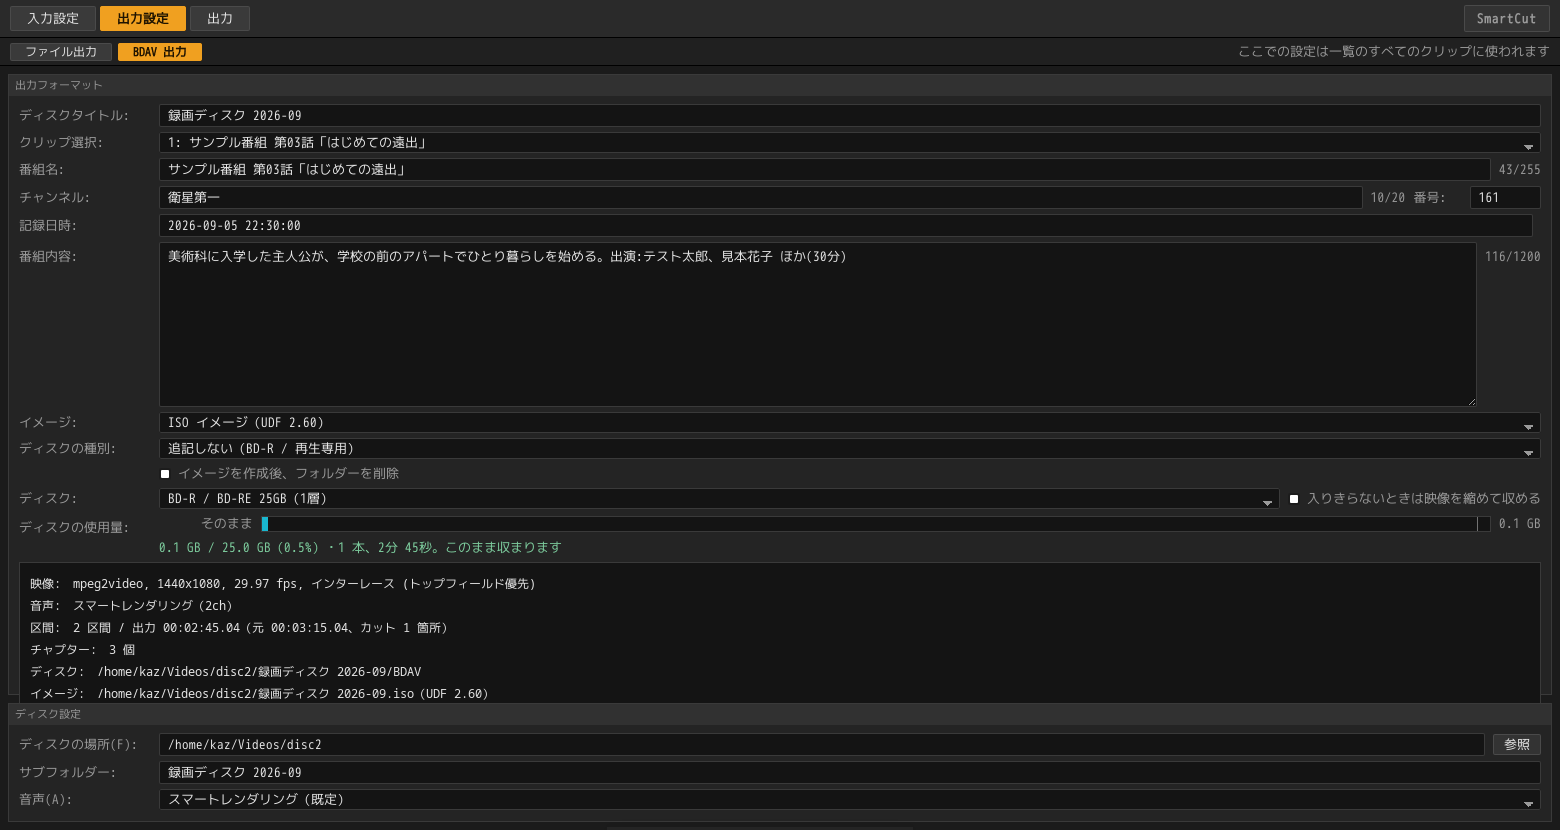
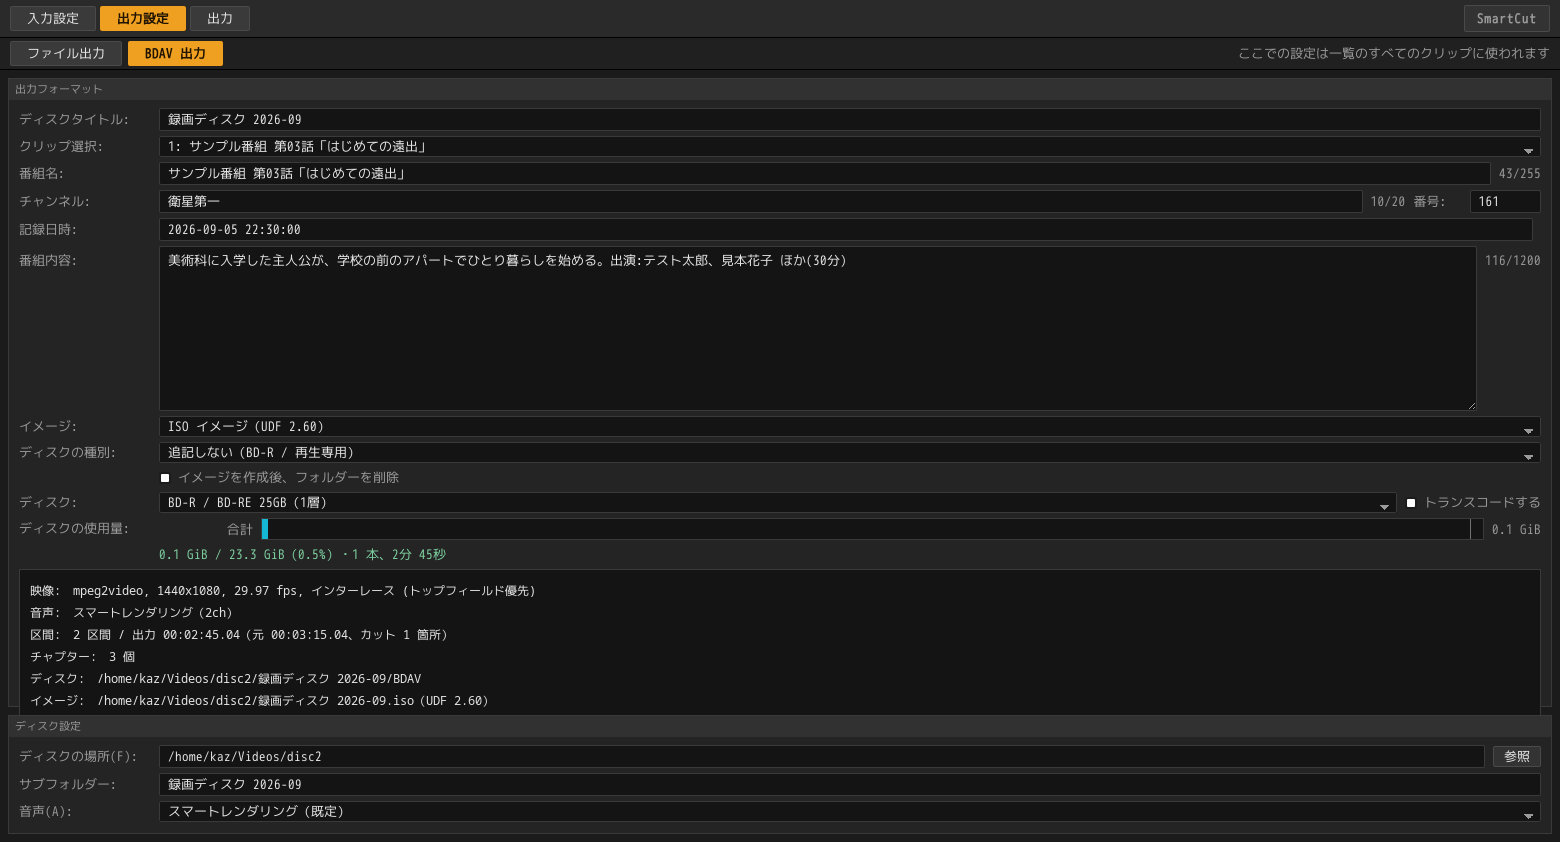
Photograph the disc panel as it now reads, and say what the gauge counts in
The two pictures of the disc panel were taken while the fitting work was
being written, and three things have moved since: the checkbox is called
`Transcode` rather than a sentence about making pictures smaller, the
first bar of the gauge is labelled `total` rather than `as it is`, and
the figures are counted in 1024s and named GiB. A single-layer disc reads
23.3 GiB where the picture still showed 25.0 GB.

That last one is worth a line in the guide rather than leaving the reader
to work it out: the control above the gauge says "25GB" and the gauge
says 23.3 GiB, and they are two statements about the same disc -- one the
name on the box, one what the file manager beside the window would say.

Also in the guide: the keyframe cards fill from an approximate seek while
the recording is still being read, the way the filmstrip beside them
already did. The paragraph about that stage described the strip and not
the cards.

And the opening of "Fitting a disc" compared thirty gigabytes of
recordings against a disc of twenty-three, which is thirty counted one
way against a disc counted the other. The disc is twenty-five.

diff --git a/docs/user-guide/gui.ja.md b/docs/user-guide/gui.ja.md
@@ -261,6 +261,9 @@ BDAV 出力では番組名にも入ります（出力設定で番組名を直接
 あります。再生位置を動かしているあいだは速いほうだけで埋め、**手を止めた瞬間に
 残りが埋まります。** サーチ中はまばらに見えて、離すと詰まるのはこのためです。
 
+**左の列のキーフレームの絵も同じです。** 読み終わるまでは近いところで取った
+絵が入り、読み終わると、印の時刻ちょうどの絵に入れ替わります。
+
 読み込みが終われば、どちらも正確なものに揃います。**先に入れたカットは、
 入れた位置のまま残ります。** 変わるのはその代償だけです。切れ目が無劣化点に
 乗っていなければ、数フレームの再エンコードとして計画に出てきて、
@@ -578,7 +581,7 @@ ImgBurn がそのまま焼けます。
 | **イメージを作成後、フォルダーを削除** | イメージの下にあり、イメージを作るときだけ出ます。同じ 30 GB が 2 つ残るのは、たいていの用途には多すぎます。フォルダーは今までどおり書かれ、`.iso` もそれを元に作られます。削除はそのあとで、`.iso` が書けたときだけです。消えるのは `BDAV` です。その上のフォルダーは空になったときだけ消えるので、自分のフォルダーに直接書いた場合、そこにある他のものは残ります |
 | **ディスク** | 焼く予定のディスクです（25GB / DL 50GB / XL 100GB / XL 128GB）。下の**ディスクの使用量**は、この大きさに対する図になります |
 | **トランスコードする** | 一覧が選んだディスクに収まらないとき、映像をトランスコードして収めます。**収まるときは何もしません。** 音声・字幕・番組情報はそのままで、小さくなるのは映像だけです。オンにすると、下の図に「変換後」の行が増えて、映像をどのくらいのサイズにするかが出ます。MPEG-2 の録画だけが対象で、それ以外の録画は元のサイズのまま場所を取ります。中で何をしているかは[ディスクに収める](../technical/transrate.ja.md)へ |
-| **ディスクの使用量** | 一覧がディスクに対してどれだけかを、録画 1 本ずつの帯にして描きます。白い線がディスクの端で、その手前の細い線が残しておく 1% です。線を越えた部分は赤くなります。数字は書き出す前の見積もりで、丸ごと 1 本なら 1% ほどの精度です |
+| **ディスクの使用量** | 一覧がディスクに対してどれだけかを、録画 1 本ずつの帯にして描きます。白い線がディスクの端で、その手前の細い線が残しておく 1% です。線を越えた部分は赤くなります。数字は書き出す前の見積もりで、丸ごと 1 本なら 1% ほどの精度です。単位は GiB で、ファイルマネージャーが言うのと同じ 1024 換算です。1 層のディスクが 23.3 GiB と出るのはそのためで、上の「25GB」は箱に書いてある名前のほうです |
 | **ディスクの場所** | 「出力先フォルダー」の代わりに出ます。**空欄にはできません**（ディスクは 1 か所ですが、一覧の録画は 4 か所から来ているかもしれないためです）。この下に「サブフォルダー」の名前でもう 1 段作り、そこに `BDAV` を書きます |
 
 **番組情報は録画と一緒に付いていきます。** これがディスクとして出す意味です。

diff --git a/docs/user-guide/gui.md b/docs/user-guide/gui.md
@@ -275,6 +275,10 @@ grid and some of them stay empty. While you are moving the playhead the strip
 keeps to the quick way and **completes itself the moment you stop** — which is
 why it can look thin while you search and fill in when you let go.
 
+**The keyframe cards down the left side are the same.** Until the reading
+finishes they hold a picture found near the mark; once it finishes, each card
+settles on the frame at the mark's own time.
+
 Once the reading finishes, both settle down to exact. **Cuts made earlier stay
 exactly where you put them.** The only thing that changes is what they cost: a
 join that is not on a lossless point shows up in the plan as a few re-encoded
@@ -604,7 +608,7 @@ Writing a disc adds these fields:
 | **Remove the folder once the image is written** | Under the image, and only there when one is being made: the same thirty gigabytes twice over is not what most runs want to be left with. The folder is still written and the image still made of it — this happens afterwards, and only where the image was written. `BDAV` goes, and the folder above it only where that leaves it empty, so a disc written into a folder of your own leaves the rest of it alone |
 | **Disc** | The disc this is going to be burned onto (25GB / DL 50GB / XL 100GB / XL 128GB). The gauge below is drawn against it |
 | **Transcode** | Where the list does not fit the disc chosen above, the pictures are transcoded smaller until it does. **Where it fits, nothing is done to them.** The sound, the subtitles and the programme information are untouched; only the pictures give anything up. Turning it on adds a second row to the gauge -- "before" and "after" -- showing what the disc comes to afterwards and what share the pictures are written at. MPEG-2 recordings only; anything else takes its full room. What happens inside is in [Fitting a disc](../technical/transrate.md) |
-| **Disc used** | What the list comes to against the disc, a band per recording. The white line is the edge of the disc and the faint one before it is the hundredth held back; anything past the line is drawn in red. The figures are an estimate made before anything is written, and on whole recordings it lands within about one per cent |
+| **Disc used** | What the list comes to against the disc, a band per recording. The white line is the edge of the disc and the faint one before it is the hundredth held back; anything past the line is drawn in red. The figures are an estimate made before anything is written, and on whole recordings it lands within about one per cent. They are counted in GiB, the way the file manager beside the window counts, which is why a single-layer disc reads 23.3 GiB here and "25GB" on the control above -- that one is the name on the box |
 | **Disc folder** | Replaces "Output folder", and **cannot be left empty** — a disc is one place, and the recordings in a list can have come from four. SmartCut makes one more folder under it, named by "Subfolder", and writes `BDAV` in there |
 
 **The programme information comes with the recording.** This is the point of

diff --git a/docs/technical/transrate.ja.md b/docs/technical/transrate.ja.md
@@ -3,7 +3,7 @@
 [← ドキュメント](../README.ja.md) ・ [← SmartCut](../../README.ja.md) ・ [English](transrate.md)
 
 **一晩ぶんの録画は 1 枚に入らない。** 1 時間番組を 6 本も録れば 30 GB になる。
-片面 1 層は 23 GB しか入らない。どれかを諦めるか、2 枚に分けるか、映像を
+片面 1 層は 25 GB しか入らない。どれかを諦めるか、2 枚に分けるか、映像を
 細かく書くのをやめるかである。
 
 ここでやるのは 3 つ目である。再エンコードではない。マクロブロックも動き

diff --git a/docs/technical/transrate.md b/docs/technical/transrate.md
@@ -4,7 +4,7 @@
 
 **A night's recordings do not fit a Blu-ray.** Six hour-long programmes off a
 Japanese broadcast come to thirty gigabytes and a single-layer disc holds
-twenty-three of them, so something has to give: a recording left off, a second
+twenty-five of them, so something has to give: a recording left off, a second
 disc, or the pictures written down less finely than they arrived.
 
 This is the third of those. It is not a re-encode. Every picture keeps its own
